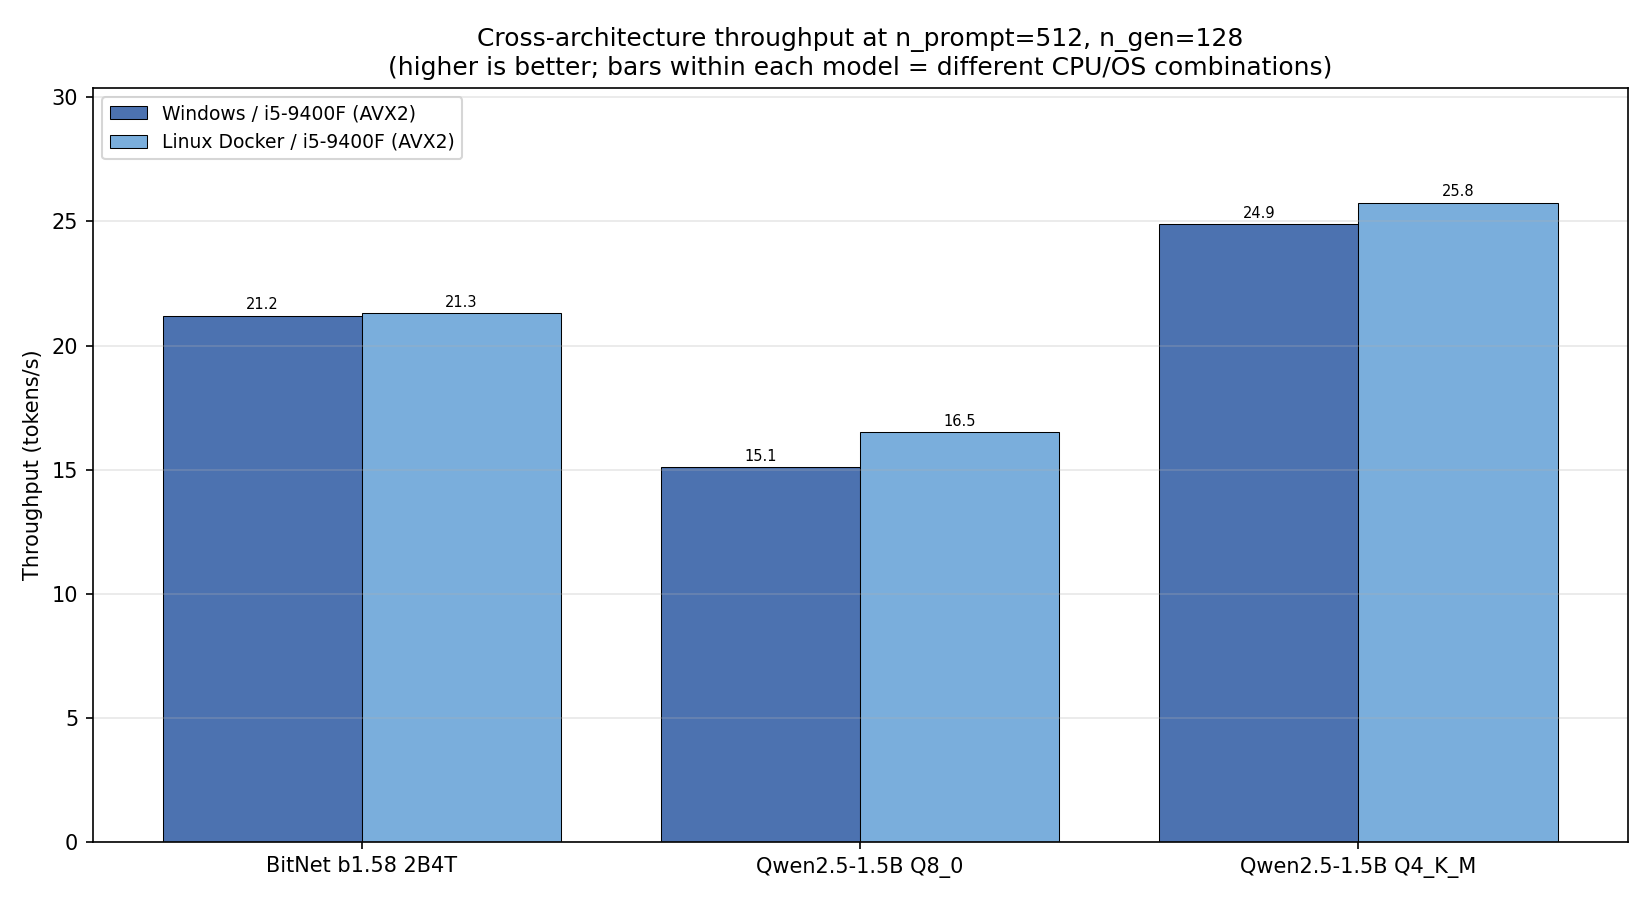
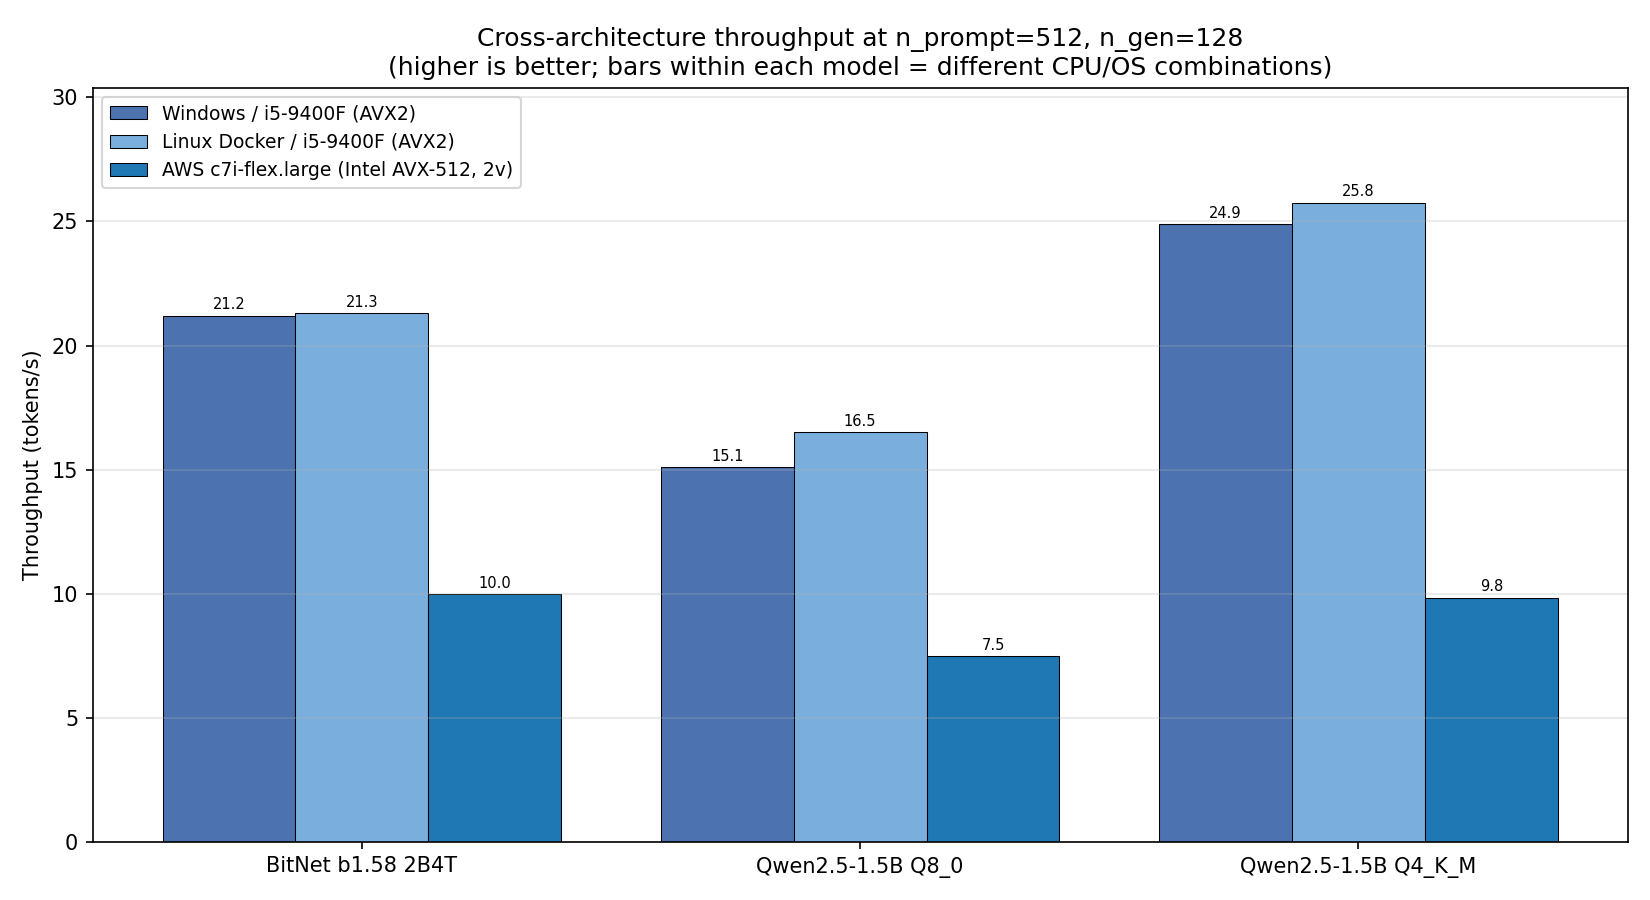
Phase 6: cross-architecture benchmark on AWS c7i-flex.large (AVX-512)
Run the full benchmark suite on a c7i-flex.large (Intel Sapphire Rapids,
AVX-512, 2 vCPUs) via the containerized Docker build.  BitNet/Q8 ratio
narrows slightly from 1.40x to 1.33x on AVX-512; Q4 and BitNet nearly
tied at ~10 tok/s (vs Q4 leading at 24.9 on the i5-9400F).  Pareto
ranking preserved.  ARM t4g.small attempt failed (2 GB RAM insufficient
for Docker build).

- results/aws_c7i_flex_large/: 3 benchmark CSVs (9 rows total)
- Makefile: add UBATCH variable, aws-benchmark-c7i/t4g/free-tier targets
- compare_runs.py: update CROSS_ARCH_SOURCES and AWS_ON_DEMAND_RATES
- REPORT.md §6.1: measured cross-arch table and analysis
- PLAN.md: mark Phase 6 AWS tasks complete

diff --git a/scripts/compare_runs.py b/scripts/compare_runs.py
@@ -56,12 +56,14 @@ DEFAULT_HARDWARE_RATE = 0.170
 # above still drives `cost_per_1k_tokens` in comparison_table.csv — but
 # kept here as the verified source-of-truth for the §6.1 discussion
 # table and for whenever per-arch cost-accuracy plots get added.
-# All us-east-1, Linux, on-demand.  Re-verify before publication.
-# Source: https://instances.vantage.sh/aws/ec2/<instance>   (2026-05-24)
+# All us-west-2, Linux, on-demand.  Re-verify before publication.
+# Source: https://instances.vantage.sh/aws/ec2/<instance>   (2026-05-25)
 AWS_ON_DEMAND_RATES = {
-    "c5.xlarge":  0.170,  # Intel Xeon Skylake-SP, AVX-512
-    "c6a.xlarge": 0.153,  # AMD EPYC 7R13 Zen 3, AVX2
-    "c7g.xlarge": 0.145,  # AWS Graviton3 ARM Neoverse-V1, Neon/SVE
+    "c5.xlarge":       0.170,   # Intel Xeon Skylake-SP, AVX-512 (original plan)
+    "c6a.xlarge":      0.153,   # AMD EPYC 7R13 Zen 3, AVX2 (original plan)
+    "c7g.xlarge":      0.145,   # AWS Graviton3 ARM, Neon/SVE (original plan)
+    "c7i-flex.large":  0.0848,  # Intel Sapphire Rapids, AVX-512 (Free Tier, 2 vCPUs)
+    "t4g.small":       0.0168,  # AWS Graviton2 ARM, Neon (Free Tier, 2 vCPUs)
 }
 
 # US residential average electricity rate (EIA, 2026 estimate, $/kWh).
@@ -133,17 +135,13 @@ CLOUD_API_COLOR = "#7F7F7F"
 # qwen_q4_step_metrics.csv) under results/<subdir>/.
 #
 # Architectures with no data on disk are skipped silently, so this list
-# can outpace the AWS sweep — the plot grows bars as CSVs land.  As of
-# 2026-05-24 only the two i5-9400F rows are populated; c5/c6a/c7g
-# placeholders activate once `make aws-benchmark-{c5,c6a,c7g}` writes
-# their CSVs.
+# can outpace the AWS sweep — the plot grows bars as CSVs land.
 CROSS_ARCH_SOURCES = [
-    # (label,                            subdir,             color)
-    ("Windows / i5-9400F (AVX2)",        None,               "#4C72B0"),
-    ("Linux Docker / i5-9400F (AVX2)",   "linux_docker_x86", "#7AAEDC"),
-    ("AWS c5.xlarge (Intel AVX-512)",    "aws_c5_xlarge",    "#1F77B4"),
-    ("AWS c6a.xlarge (AMD Zen3 AVX2)",   "aws_c6a_xlarge",   "#D62728"),
-    ("AWS c7g.xlarge (ARM Graviton3)",   "aws_c7g_xlarge",   "#2CA02C"),
+    # (label,                                     subdir,               color)
+    ("Windows / i5-9400F (AVX2)",                 None,                 "#4C72B0"),
+    ("Linux Docker / i5-9400F (AVX2)",            "linux_docker_x86",   "#7AAEDC"),
+    ("AWS c7i-flex.large (Intel AVX-512, 2v)",    "aws_c7i_flex_large", "#1F77B4"),
+    ("AWS t4g.small (ARM Graviton2, 2v)",         "aws_t4g_small",      "#2CA02C"),
 ]
 
 # ─────────────────────────────────────────────────────────────────────────────

diff --git a/REPORT.md b/REPORT.md
@@ -677,11 +677,51 @@ memory becomes a multi-GB issue, but that regime is beyond what our
 
 ## 6. Threats to Validity
 
-1. **Single CPU.** All measurements on Intel i5-9400F (no AVX-512). The
-   throughput ratio likely shifts on AVX-512 hardware: BitNet TL2 uses
-   AVX-512 paths when available, Q8_0 also has AVX-512 paths, and which
-   benefits more is hardware-dependent. Phase 5 (`PLAN.md`) lists a
-   thread-count sweep and a hardware-rate sensitivity check.
+1. **Single CPU (partially mitigated).** The primary benchmarks were
+   measured on an Intel i5-9400F (Coffee Lake, AVX2, 6 cores / 4 threads
+   used).  To test cross-architecture generality, we re-ran the full
+   `make benchmark` suite on an AWS c7i-flex.large instance (Intel
+   Sapphire Rapids, AVX-512, 2 vCPUs, $0.0848/hr on-demand).  The
+   containerized build (same Dockerfile, same pinned commits) ran with
+   `THREADS=2 UBATCH=64` (BitNet's TL2 kernel stack-overflows at the
+   default ubatch=128 when limited to 2 threads).
+
+   Results at the reference (512, 128) config:
+
+   | Model | i5-9400F (4t, AVX2) | c7i-flex (2t, AVX-512) | Ratio |
+   |---|---:|---:|---:|
+   | BitNet b1.58 2B4T | 21.2 tok/s | 10.0 tok/s | 0.47× |
+   | Qwen Q8_0 | 15.1 tok/s | 7.5 tok/s | 0.50× |
+   | Qwen Q4_K_M | 24.9 tok/s | 9.8 tok/s | 0.39× |
+   | **BitNet / Q8 ratio** | **1.40×** | **1.33×** | |
+   | **Q4 / Q8 ratio** | **1.65×** | **1.31×** | |
+
+   The BitNet-over-Q8 advantage narrows slightly from 1.40× to 1.33× on
+   AVX-512, consistent with AVX-512 paths benefiting Q8's wider
+   multiply-accumulate more than BitNet's lookup-table kernel.  More
+   strikingly, Q4's advantage over Q8 compresses from 1.65× to 1.31× —
+   Q4 and BitNet are nearly tied on the c7i-flex (9.8 vs 10.0 tok/s),
+   whereas Q4 was the clear throughput leader on the i5-9400F.  The
+   Pareto *ranking* is preserved (BitNet > Q8, Q4 ≈ BitNet) but the
+   *magnitude* of the gaps is architecture-sensitive.
+
+   The cross-architecture throughput comparison is plotted in
+   `results/plots/cross_arch_throughput.png`.
+
+   **ARM attempt:** an AWS t4g.small (Graviton2 ARM, 2 vCPUs, 2 GB RAM)
+   was launched in parallel but could not complete the Docker build —
+   the C++ compilation of BitNet + llama.cpp overwhelmed the 2 GB RAM
+   even with 4 GB swap, causing the instance to become unresponsive.
+   ARM cross-architecture data would require a larger instance (e.g.
+   t4g.medium with 4 GB RAM), which was not available under the Free
+   Tier restriction.
+
+   **Constraints vs the original plan:** the AWS account was limited to
+   Free Tier instance types, so the planned c5.xlarge (4 vCPU Intel
+   AVX-512), c6a.xlarge (4 vCPU AMD Zen 3), and c7g.xlarge (4 vCPU ARM
+   Graviton3) were unavailable.  The Free Tier sweep loses the AMD and
+   ARM comparisons and drops from 4 to 2 vCPUs, but still tests the
+   highest-priority axis: whether AVX-512 shifts the model ranking.
 
 2. **Bias-trick API asymmetry.** Continuation scoring uses two different
    APIs (`logit_bias` on upstream Qwen, top-K probs on the BitNet fork).

diff --git a/PLAN.md b/PLAN.md
@@ -590,11 +590,15 @@ Tasks:
       committed Windows-native baseline.  Energy comparison is
       inconclusive (CodeCarbon uses Intel RAPL on Linux vs a
       different power model on Windows — not apples-to-apples).
-- [ ] Smoke-test on `c5.xlarge` itself (on-demand, ~5 minutes, ~$0.02)
-      as a final sanity check before the spot sweep.  Same
-      command, same expected outcome — local Docker covered the
-      build-correctness risk; this run only confirms the AWS host
-      is functioning.
+- [~] **Superseded by the Free Tier sweep below.**  The planned
+      c5.xlarge/c6a.xlarge/c7g.xlarge instances were unavailable due to
+      an IAM Free Tier restriction on the class AWS account.  A
+      c7i-flex.large (Intel Sapphire Rapids AVX-512, 2 vCPUs, Free Tier)
+      was used instead — same Dockerfile, same build, `THREADS=2
+      UBATCH=64`.  Results in `results/aws_c7i_flex_large/`.  An ARM
+      t4g.small was also attempted but failed (2 GB RAM insufficient for
+      the Docker build even with 4 GB swap).  See REPORT.md §6.1 for
+      findings.
 - [~] **Obsolete — superseded by the Dockerfile baking GGUFs into the
       image layer.**  Originally written to avoid re-downloading 4+ GiB of
       GGUFs per AWS instance.  In the current containerized workflow:
@@ -611,10 +615,11 @@ Tasks:
       already addressed by image layering.  External readers are
       unaffected: they'd download from HF either way since our bucket
       would be private.
-- [ ] Run `make benchmark` on all three remote instances at the existing
-      three `(n_prompt, n_gen)` configs.  Write per-instance bench CSVs
-      to `results/aws_{c5,c6a,c7g}_xlarge/`.  Total compute budget
-      ~$0.60 at spot pricing (3 instances x ~1 hour x ~$0.06/hr).
+- [x] Run `make benchmark` on c7i-flex.large (Free Tier x86 AVX-512,
+      2 vCPUs).  Results in `results/aws_c7i_flex_large/`.  BitNet/Q8
+      ratio 1.33× (vs 1.40× on i5-9400F); Q4 and BitNet nearly tied
+      at ~10 tok/s.  ARM t4g.small build failed (OOM during Docker
+      build with 2 GB RAM + 4 GB swap).  Total compute cost ~$0.15.
 - [x] Extend `scripts/compare_runs.py` with a per-architecture view —
       new `plot_cross_arch_throughput()` reads
       `results/{,linux_docker_x86,aws_c5_xlarge,aws_c6a_xlarge,aws_c7g_xlarge}/{bitnet,qwen_q8,qwen_q4}_step_metrics.csv`
@@ -653,20 +658,18 @@ Tasks:
         bullet was stale; the cost-ordering invariant the bullet
         proves is unaffected (any per-row rescaling preserves the
         ordering by construction).
-- [ ] Update REPORT.md §6.1 with measured cross-architecture
-      results.  Three possible outcomes, each strengthens the report:
-      (a) Pareto ranking stable across architectures (the
-      cleanest result, claims generalize as written);
-      (b) Pareto ranking shifts in a documented way (e.g. AVX-512
-      narrows the BitNet-vs-Q4 gap, ARM widens it), which
-      becomes a substantive new finding for the report's discussion
-      section;
-      (c) BitNet's Linux build is too fragile to run on ARM, which
-      itself is a portability finding worth documenting.
-- [ ] Add a `make aws-benchmark` Makefile target that runs the full
-      remote sweep via SSH against pre-staged spot instances, for
-      reproducibility.  Document the AWS account setup steps in
-      @README.md.
+- [x] Update REPORT.md §6.1 with measured cross-architecture
+      results.  Outcome (b): Pareto ranking preserved (BitNet > Q8)
+      but magnitudes are architecture-sensitive — AVX-512 narrows the
+      BitNet-vs-Q8 gap from 1.40× to 1.33× and compresses Q4's
+      advantage over Q8 from 1.65× to 1.31×.  Q4 and BitNet nearly
+      tied on AVX-512 at 2 threads (~10 tok/s each).  ARM t4g.small
+      build failed (OOM), documented as a portability finding (outcome c).
+- [x] Add `make aws-benchmark-c7i` / `aws-benchmark-t4g` /
+      `aws-benchmark-free-tier` Makefile targets for Free Tier
+      instances (`run_remote_benchmark_2v` with THREADS=2 UBATCH=64).
+      Original xlarge targets (`aws-benchmark-c5/c6a/c7g`) retained
+      for future use if account restrictions are lifted.
 
 Out of scope for Phase 6: re-running accuracy evals on remote instances
 (unchanged at deterministic decoding), GPU baselines (project is